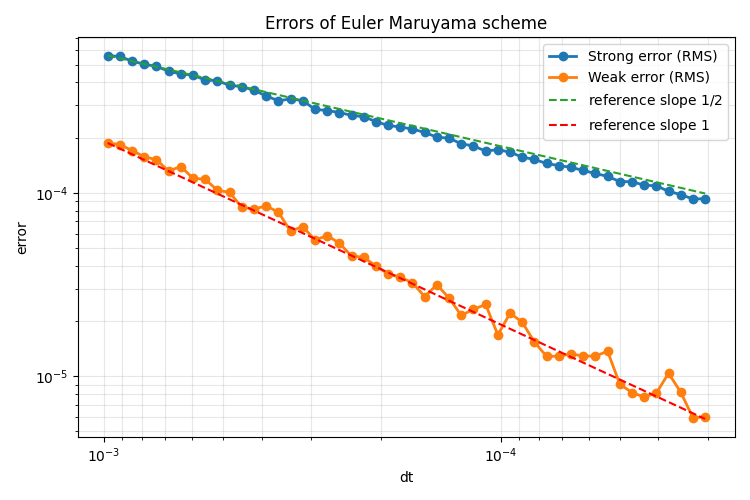
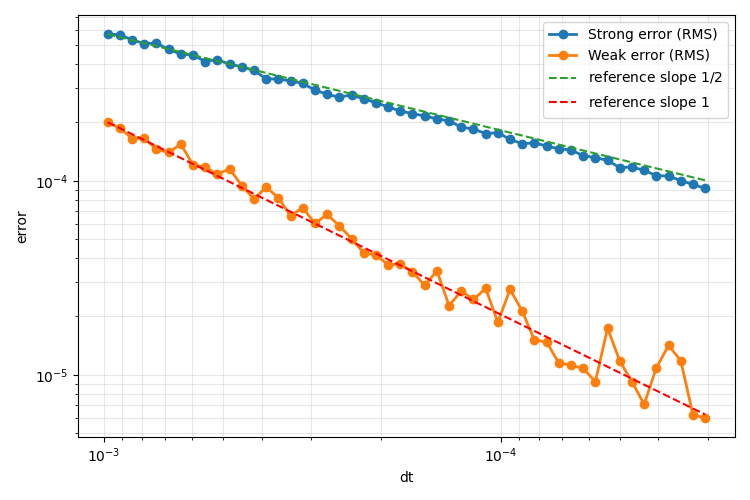
happy

diff --git a/errors.py b/errors.py
@@ -58,14 +58,12 @@ def error_pendulum_fast(x0, v0, T, fv, N, Scheme, M=2000, ref_factor=5, seed=0):
     return float(np.mean(np.sqrt(dx_strong*dx_strong + dv_strong*dv_strong))), float(np.sqrt(dx_weak*dx_weak + dv_weak*dv_weak))
 
 
-def CreatePlot(scheme,fv,T,fd):
+def CreatePlot(scheme,fv,T,fd, M, ref_factor,points):
     x0, v0 = 1.0, 0.0
-    M = 2000
-    ref_factor = 4
     seed = 500
 
     Ns = np.unique(
-        np.round(2**np.linspace(10, 15, 50)).astype(int)
+        np.round(2**np.linspace(10, 15, points)).astype(int)
     )  
     dts = T / Ns
     from joblib import Parallel, delayed
@@ -108,6 +106,26 @@ def CreatePlot(scheme,fv,T,fd):
    
 
 if __name__ == "__main__":
-    CreatePlot(EulerMaruyamaStep,itofv,1.0,"Plot1.png")
-    CreatePlot(EulerMaruyamaStep,stratfv,1.0,"Plot2.png")
+    # CreatePlot(EulerMaruyamaStep,itofv,1.0,"Plot1.png", 1000, 5,50)
+    # a=0.0
+    # CreatePlot(EulerMaruyamaStep,itofv,1.0,"Plota0.png", 100, 5,20)
+    # a=0.6
+    # CreatePlot(EulerMaruyamaStep,itofv,1.0,"Plota6.png", 100, 5,20)
+    # a= 0.3
+    # b= 0.0
+    # CreatePlot(EulerMaruyamaStep,itofv,1.0,"Plotb0.png", 100, 5,20)
+    # b= 1.2
+    # CreatePlot(EulerMaruyamaStep,itofv,1.0,"Plotb12.png", 100, 5,20)
+    # b = 0.6
+    # c = 0.0
+    # CreatePlot(EulerMaruyamaStep,itofv,1.0,"Plotc0.png", 100, 5,20)
+    # c = 0.6
+    # CreatePlot(EulerMaruyamaStep,itofv,1.0,"Plotc6.png", 100, 5,20)
+
+
+
+    # c = 0.3
+    CreatePlot(EulerMaruyamaStep,stratfv,1.0,"Plotstrato.png", 1000, 5,50)
+    # CreatePlot(MilsteinStep,itofv,1.0,"Plotstrato.png", 1000, 5,50)
+    # CreatePlot(EulerMaruyamaStep,stratfv,1.0,"Plot2.png")
 

diff --git a/test.py b/test.py
@@ -1,0 +1,7 @@
+import time
+
+
+def a():
+    time.sleep(200)
+    from doesnotexsit import a
+a()
